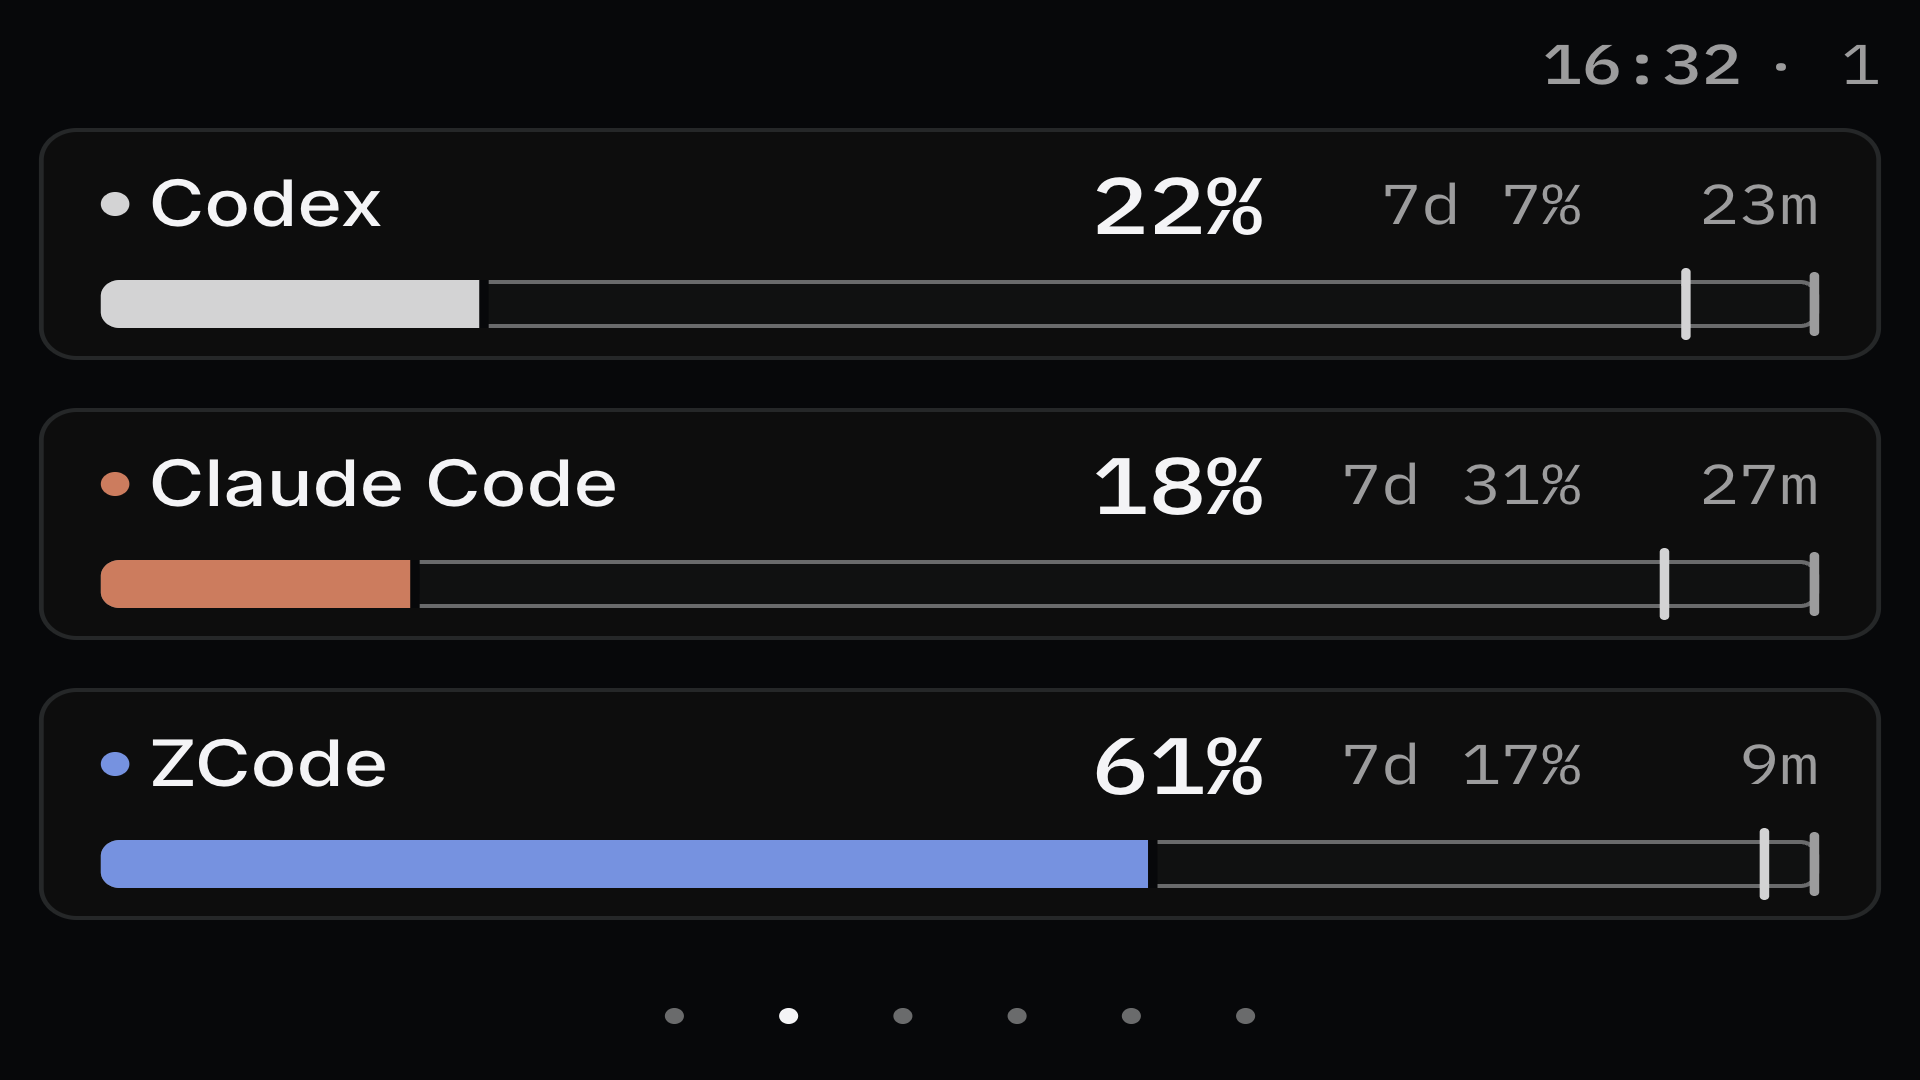
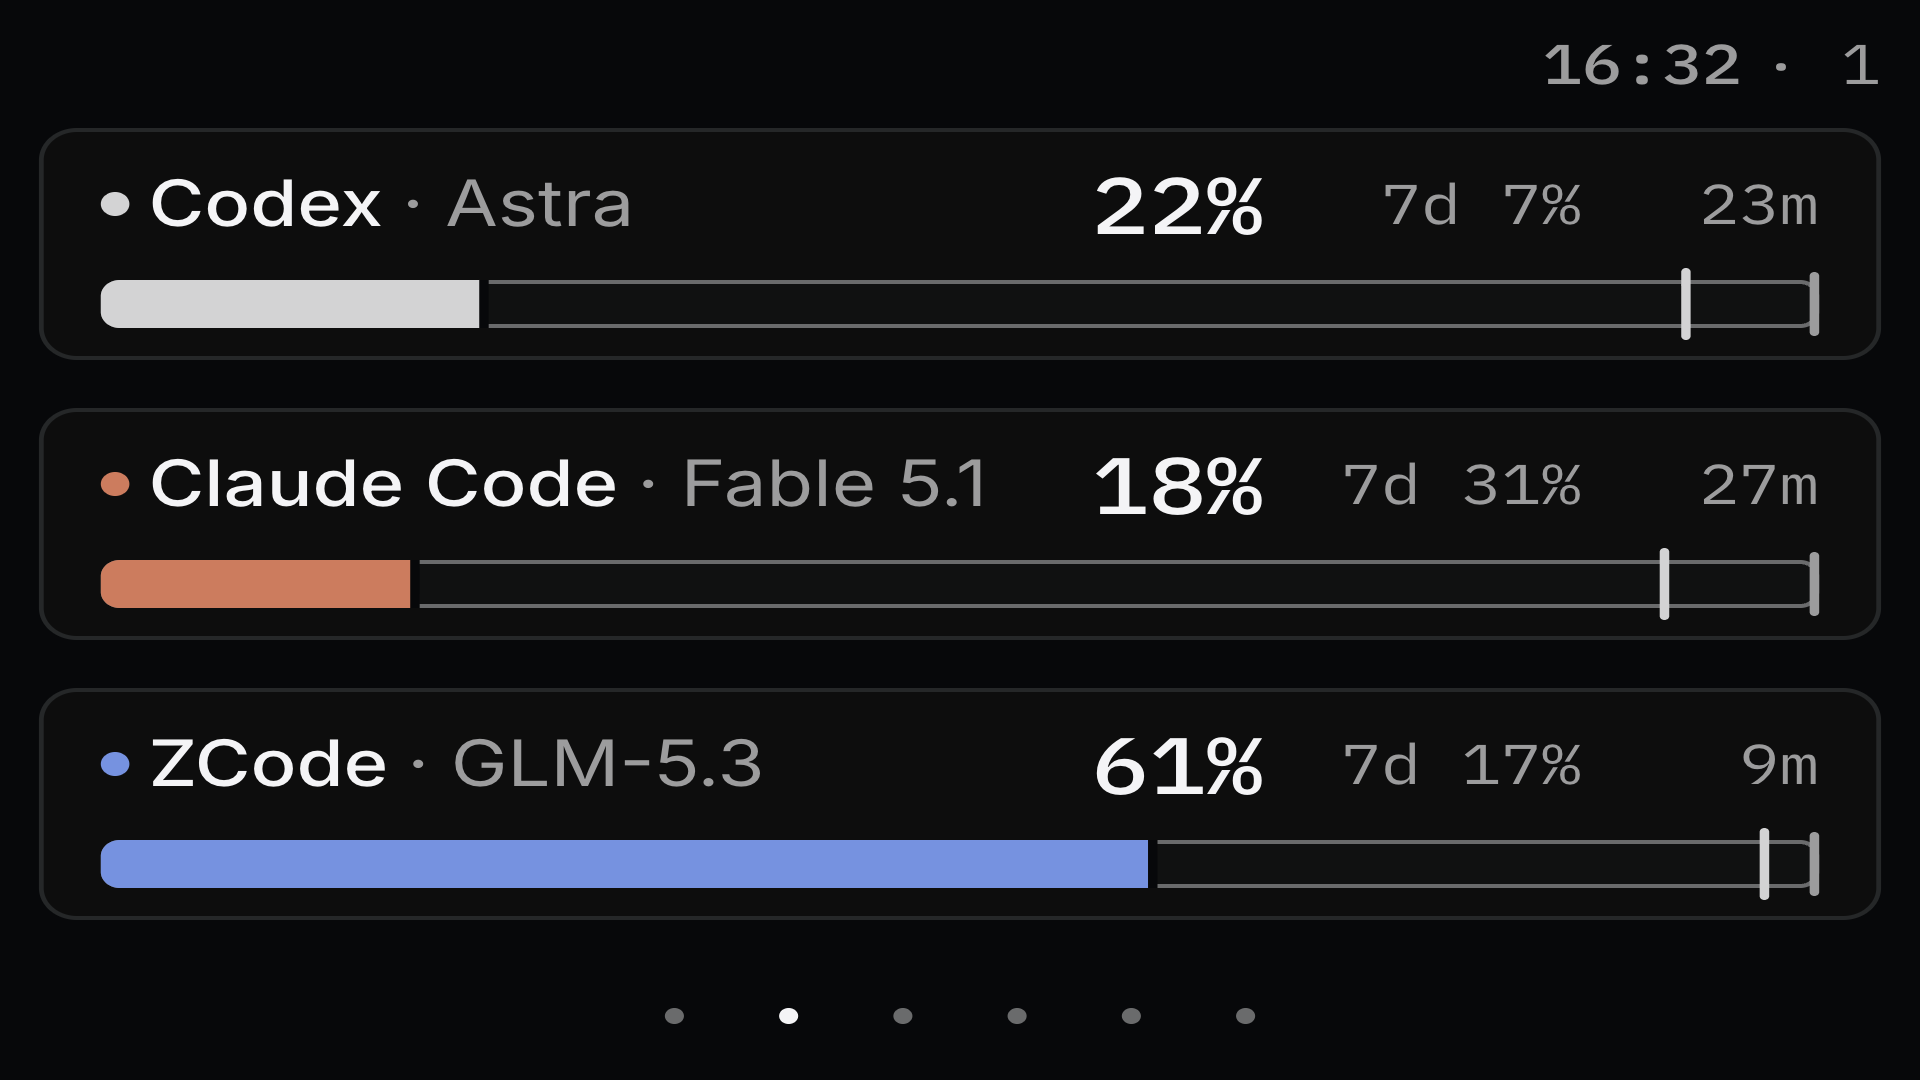
B page: countdown min-width 5ch, name column flex; shortModel ≤10 chars on every branch; edge scene reproduces long-countdown row

Changed region(s): [[0.2188, 0.6722, 0.4062, 0.7333], [0.3438, 0.4278, 0.5312, 0.4889], [0.2188, 0.1528, 0.3438, 0.2139]]

diff --git a/scripts/selftest.ts b/scripts/selftest.ts
@@ -1126,25 +1126,55 @@ export async function runSelftest(win: BrowserWindow, store?: Store): Promise<bo
        规则不是「有值就一定画」：这一行有状态词（等待你批准 / 运行中）或处于 stale 时，
        那个槽位让给更该被看到的东西，模型**故意**不显示。
        所以逐家比的是「该画的画了、该让的让了」两个方向，而不是单纯数非空。 */
-    const perAgent = await js<Array<{ model: string; word: string }>>(win, `
+    const perAgent = await js<Array<{ model: string; word: string; level: string }>>(win, `
       [...document.querySelectorAll('#pbBands .tile')].map(t => ({
         model: (t.querySelector('.b-model')?.textContent || '').replace(/^·\\s*/, '').trim(),
-        word: (t.querySelector('.b-verdict')?.textContent || '').trim()
+        word: (t.querySelector('.b-verdict')?.textContent || '').trim(),
+        // 档位直接读渲染出来的 data-level，别在用例里重抄一遍 80/95 的阈值
+        level: t.dataset.level || ''
       }))`)
     const agentsNow = store.get().agents
     const bad = agentsNow.map((a, i) => {
       const want = (a.topModel ?? '').trim()
       const got = perAgent[i]?.model ?? ''
-      const yields = a.status === 'running' || a.status === 'attention' || !!a.stale
-      if (yields) return got ? `${a.id}: 该让位给「${perAgent[i]?.word}」却还画着「${got}」` : ''
+      /* 四条让位规则（REVISION 10）：有状态词、warn / danger 档、stale。
+         档位读的是瓦片上渲染出来的 data-level —— 阈值只有一处真源。 */
+      const lvl = perAgent[i]?.level ?? ''
+      const yields = a.status === 'running' || a.status === 'attention' || !!a.stale ||
+        (lvl !== '' && lvl !== 'ok')
+      if (yields) {
+        const why = a.status === 'running' || a.status === 'attention' ? `「${perAgent[i]?.word}」`
+          : a.stale ? 'stale' : `${lvl} 档`
+        return got ? `${a.id}: 该让位给 ${why} 却还画着「${got}」` : ''
+      }
       if (want && !got) return `${a.id}: 状态有「${want}」屏上空`
       if (!want && got) return `${a.id}: 状态没有模型，屏上却画了「${got}」`
       return ''
     }).filter(Boolean)
+    /* 这三个字段**一个都不许被省略**（m5-designer 2026-09-15 收紧）。
+       原来只对模型短名要求「省略不得过半」，而实机那一帧是产品名与短名双双截断、
+       右边还空着一大片 —— 根因是 `.b-name` 的 flex-basis 0 让名字列完全由「剩多少」
+       决定，而 `.b-cd` 定宽先把地方拿走了。两处 CSS 改完之后这条强度买得起：
+       224 格全过。判据用 scrollWidth 与 clientWidth，比看有没有「…」可靠
+       （ellipsis 是画出来的，不在 textContent 里）。 */
+    const clipped = await js<string[]>(win, `
+      [...document.querySelectorAll('#pbBands .b-name span.t, #pbBands .b-cd, #pbBands .b-model')]
+        .filter(n => n.scrollWidth > n.clientWidth + 1)
+        .map(n => (n.className || n.tagName) + '「' + (n.textContent || '').trim() + '」')`)
+    check('B 页：产品名 / 倒计时 / 模型短名一个都没被省略',
+      clipped.length === 0,
+      clipped.length ? clipped.join(' | ') : '三类字段全部完整')
+
     check('B 页模型名：该画的画了、该让位的让了（状态词 / stale 优先）',
       bad.length === 0,
       bad.length ? bad.join(' | ')
-        : agentsNow.map((a, i) => `${a.id}=${perAgent[i]?.model || `(让位给「${perAgent[i]?.word || '无活动'}」)`}`).join(' · '))
+        : agentsNow.map((a, i) => {
+          const m = perAgent[i]?.model
+          if (m) return `${a.id}=${m}`
+          const lvl = perAgent[i]?.level ?? ''
+          const why = perAgent[i]?.word || (lvl && lvl !== 'ok' ? `${lvl} 档` : '无活动')
+          return `${a.id}=(让位给「${why}」)`
+        }).join(' · '))
   }
 
   /* ==========================================================================
@@ -1356,15 +1386,21 @@ export async function runSelftest(win: BrowserWindow, store?: Store): Promise<bo
      放在最后：这一格会把 claude 的额度换成合成值，不能污染上面那批交付截图。
      ========================================================================== */
   if (store) {
-    store.applyQuota('claude', {
+    /* 每次读之前都重推一遍这份合成额度。
+       claude 的真实采集在有会话时**每秒都在落地**（statusline tee 一秒写一次文件），
+       只推一次的话，读完 A 页、翻到 B 页这中间就会被真数据顶掉 ——
+       实测红过一次：A 读到合成的 0%/「—」，B 读到真实的 8%/2h39m。 */
+    const pushSynthetic = (): void => store.applyQuota('claude', {
       ok: true,
       windows: [
         { label: '5h', usedPercent: 0, resetsAt: '' },
         { label: '7d', usedPercent: 10, resetsAt: new Date(Date.now() + 107 * 3600_000).toISOString() }
       ]
     })
+    pushSynthetic()
     await sleep(300)
     await sendCommand(win, { type: 'showPage', page: 'a' })
+    pushSynthetic()
     await sleep(260)
     const a = await js<{ num: string; cd: string }>(win, `(() => {
       const t = document.querySelectorAll('#paTiles .tile')[1]
@@ -1372,6 +1408,7 @@ export async function runSelftest(win: BrowserWindow, store?: Store): Promise<bo
                cd: t?.querySelector('.cd')?.textContent?.trim() || '' }
     })()`)
     await sendCommand(win, { type: 'showPage', page: 'b' })
+    pushSynthetic()
     await sleep(260)
     const b = await js<{ pc: string; sec: string; cd: string }>(win, `(() => {
       const t = document.querySelectorAll('#pbBands .tile')[1]

diff --git a/design/variations.html b/design/variations.html
@@ -754,7 +754,10 @@ html[data-pure="1"] .pure-hint{position:fixed;left:50%;bottom:24px;transform:tra
   overflow:hidden;text-overflow:ellipsis;min-width:0;flex:0 5 auto}
 /* ok 行没有判语列了，名字这一列顺势吃掉剩余宽度，数字列因此仍然右对齐成一条线；
    loading / msg 行还留着判语，那里仍用 112px 的固定名字列让三条判语共享左边缘。 */
-.page-b .b-head-ok .b-name{flex:1;min-width:0}
+/* flex 基数用 auto 而不是 0%：basis 0 时名字列的大小完全由「剩多少」决定，
+   一旦某一行的数字列变宽（7 字符倒计时）就会连产品名一起挤掉，而右边其实还空着；
+   basis auto 是「先按内容量，放不下再让」，与实际的优先级一致。 */
+.page-b .b-head-ok .b-name{flex:1 1 auto;min-width:0}
 .page-b .b-verdict{font-size:var(--fs-min);color:var(--mute);flex:0 1 auto;min-width:0;
   overflow:hidden;text-overflow:ellipsis;white-space:nowrap;line-height:1.2}
 .page-b .b-verdict[data-tone="error"]{color:var(--danger)}
@@ -773,9 +776,11 @@ html[data-pure="1"] .pure-hint{position:fixed;left:50%;bottom:24px;transform:tra
    两者原来只差 4px，读起来是同一层；降档既让层级清楚，也把 8.4px 还给了模型短名。 */
 .page-b .b-sec{font-size:var(--fs-min);color:var(--mute);flex:none;
   width:7ch;min-width:0;text-align:right}
-/* 倒计时同样定宽，但按字符数定：5 个字符（「4h59m」）在 14px mono 下正好 42px，
-   原来的 48px 是按像素估的，多出来的 6px 在 403 画布上买不起。 */
-.page-b .b-cd{font-size:var(--fs-min);color:var(--mute);flex:none;width:5ch;text-align:right;
+/* 倒计时按字符数定，但定的是**下限**不是定宽（REVISION 10b）：
+   5 个字符（「4h59m」）是常态，42px 让三行的倒计时对齐；可周额度重置时它会长到
+   7 个字符（「107h55m」），定宽就会把它自己省略掉——倒计时是必须完整出现的字段，
+   不是可以让的那一个。flex:none 保证它只从名字列那边要地方，不被名字挤压。 */
+.page-b .b-cd{font-size:var(--fs-min);color:var(--mute);flex:none;min-width:5ch;text-align:right;
   white-space:nowrap;overflow:hidden;text-overflow:ellipsis}
 /* B-1 · 轨道原来是 --ash 实心板：全屏最亮的一块，承载的却是「没用掉的部分」——
    figure/ground 反过来了（0% 的那条读成「满的」）。WCAG 1.4.11 要的是组件边界
@@ -2585,9 +2590,19 @@ const SCENES = {
   edge: () => ({tiles:[
       {agent:"codex", phase:"ok", status:"idle", windows:[
         {label:"5h", usedPercent:97, resetsAt:"2026-09-14T16:35:48+08:00"}, CODEX_OK[1]]},
+      /* REVISION 10b · m4-executor 在真机上见过一帧「Claude Co… · Fabl…」双双截断、
+         右侧却留着空——那一行是 7 字符的倒计时（107h55m）且 7d 块缺席。
+         原型里复现这一帧：**最长的产品名 + 最长的短名 + 最长的倒计时 + 没有 7d**。
+         两件事都会真的发生：7d 是 API 给的，缺了就不渲染；「107h55m」是周额度
+         那种重置周期在倒计时里的真实形态。
+         这一行必须落在 ok 档（61%）——warn / danger 时短名本来就不显示（REVISION 10），
+         那样就复现不出「产品名与短名并排」这个最宽的组合。
+         warn 这一档挪给 ZCode，edge 仍然是 danger / ok / warn 三档同屏。 */
       {agent:"claude", phase:"ok", status:"idle", windows:[
-        {label:"5h", usedPercent:82, resetsAt:CLAUDE_OK[0].resetsAt}, CLAUDE_OK[1]]},
-      {agent:"zcode", phase:"ok", status:"idle", windows:ZCODE_OK}],
+        {label:"5h", usedPercent:61,
+         resetsAt:new Date(NOW0 + (107 * 60 + 55) * 60000).toISOString()}]},
+      {agent:"zcode", phase:"ok", status:"idle", windows:[
+        {label:"5h", usedPercent:82, resetsAt:ZCODE_OK[0].resetsAt}, ZCODE_OK[1]]}],
     feed:{phase:"ok", items:EDGE_FEED.map(x => ({...x}))}}),
   /* full · 三家同时 100%、7d 也 100%（用户 2026-09-15 实机反馈：额度打满时横向放不下）。
      这是 edge 里最宽的那一种，但不能拿它替掉 edge —— edge 现在的 97 / 82 / 61 正好

diff --git a/src/main/state.ts b/src/main/state.ts
@@ -40,6 +40,10 @@ type RawEvent = {
 const QUOTA = quotaJson as unknown as RawQuota
 const RAW_EVENTS = (eventsJson as unknown as { generatedAt: string; events: RawEvent[] }).events
 
+/** 在冻结原点上加 N 分钟，拿一个可复现的 resetsAt（edge 的 107h55m 用） */
+const plusMinutes = (iso: string, min: number): string =>
+  new Date(new Date(iso).getTime() + min * 60_000).toISOString()
+
 /** 时间原点冻结在 fixtures 的 generatedAt —— 倒计时与 resetsAt 自洽，截图可复现 */
 const NOW0 = new Date(QUOTA.generatedAt).getTime()
 const BOOT = Date.now()
@@ -84,12 +88,26 @@ const ATTN_EVENT: AgentEvent = {
   acked: false
 }
 
+/**
+ * fixtures 里三家的模型短名，与原型的 `TOP_MODEL` 对齐（REVISION 10）。
+ *
+ * 不加这一项的话，B 页在**所有** fixtures 帧上都不显示模型 —— 于是
+ * 「产品名 + 短名并排」这个最宽的组合在七态截图与逐格量尺里一次都测不到，
+ * 而 m5-designer 钉进 edge 的那个复现正是冲着这个组合来的。
+ * 真机上这个字段由 collectors/topmodel.ts 的 shortModel() 给。
+ */
+const TOP_MODEL: Record<AgentId, string> = {
+  codex: 'Astra', claude: 'Fable 5.1', zcode: 'GLM-5.3'
+}
+
 const agent = (
   id: AgentId,
   status: AgentState['status'],
   windows: QuotaWindow[],
   notice?: Notice
-): AgentState => ({ id, status, windows, updatedAt: QUOTA.generatedAt, notice })
+): AgentState => ({
+  id, status, windows, updatedAt: QUOTA.generatedAt, notice, topModel: TOP_MODEL[id]
+})
 
 const CODEX = QUOTA.codex.windows
 const CLAUDE = QUOTA.claude.windows
@@ -151,11 +169,16 @@ const SCENES: Record<SceneName, () => SceneBody> = {
         { label: '5h', usedPercent: 97, resetsAt: '2026-09-14T16:35:48+08:00' },
         CODEX[1]!
       ]),
+      /* Claude 这一行就是**实机那一帧**（m5-designer 2026-09-15 定位并钉进 fixture）：
+         61% 必须是 ok 档 —— warn/danger 时模型短名本来就不显示，
+         那样就复现不出「产品名 + 短名并排」这个最宽的组合；
+         只有 5h 没有 7d；倒计时 107h55m（7 字符）。
+         三样凑齐才会撞上「.b-name 的 basis 0 + .b-cd 定宽」那个左截断右留空。 */
       agent('claude', 'idle', [
-        { label: '5h', usedPercent: 82, resetsAt: CLAUDE[0]!.resetsAt },
-        CLAUDE[1]!
+        { label: '5h', usedPercent: 61, resetsAt: plusMinutes(QUOTA.generatedAt, 107 * 60 + 55) }
       ]),
-      agent('zcode', 'idle', ZCODE)
+      // warn 这一档挪给 ZCode，edge 仍是 danger / ok / warn 三档同屏
+      agent('zcode', 'idle', [{ ...ZCODE[0]!, usedPercent: 82 }, ...ZCODE.slice(1)])
     ],
     events: edgeFeed()
   }),

diff --git a/src/renderer/app.css b/src/renderer/app.css
@@ -227,7 +227,10 @@ body{margin:0;background:var(--canvas);overflow:hidden;
   overflow:hidden;text-overflow:ellipsis;min-width:0;flex:0 5 auto}
 /* ok 行没有判语列了，名字这一列顺势吃掉剩余宽度，数字列因此仍然右对齐成一条线；
    loading / msg 行还留着判语，那里仍用 112px 的固定名字列让三条判语共享左边缘。 */
-.page-b .b-head-ok .b-name{flex:1;min-width:0}
+/* flex 基数用 auto 而不是 0%：basis 0 时名字列的大小完全由「剩多少」决定，
+   一旦某一行的数字列变宽（7 字符倒计时）就会连产品名一起挤掉，而右边其实还空着；
+   basis auto 是「先按内容量，放不下再让」，与实际的优先级一致。 */
+.page-b .b-head-ok .b-name{flex:1 1 auto;min-width:0}
 .page-b .b-verdict{font-size:var(--fs-min);color:var(--mute);flex:0 1 auto;min-width:0;
   overflow:hidden;text-overflow:ellipsis;white-space:nowrap;line-height:1.2}
 .page-b .b-verdict[data-tone="error"]{color:var(--danger)}
@@ -246,9 +249,11 @@ body{margin:0;background:var(--canvas);overflow:hidden;
    两者原来只差 4px，读起来是同一层；降档既让层级清楚，也把 8.4px 还给了模型短名。 */
 .page-b .b-sec{font-size:var(--fs-min);color:var(--mute);flex:none;
   width:7ch;min-width:0;text-align:right}
-/* 倒计时同样定宽，但按字符数定：5 个字符（「4h59m」）在 14px mono 下正好 42px，
-   原来的 48px 是按像素估的，多出来的 6px 在 403 画布上买不起。 */
-.page-b .b-cd{font-size:var(--fs-min);color:var(--mute);flex:none;width:5ch;text-align:right;
+/* 倒计时按字符数定，但定的是**下限**不是定宽（REVISION 10b）：
+   5 个字符（「4h59m」）是常态，42px 让三行的倒计时对齐；可周额度重置时它会长到
+   7 个字符（「107h55m」），定宽就会把它自己省略掉——倒计时是必须完整出现的字段，
+   不是可以让的那一个。flex:none 保证它只从名字列那边要地方，不被名字挤压。 */
+.page-b .b-cd{font-size:var(--fs-min);color:var(--mute);flex:none;min-width:5ch;text-align:right;
   white-space:nowrap;overflow:hidden;text-overflow:ellipsis}
 /* B-1 · 轨道原来是 --ash 实心板：全屏最亮的一块，承载的却是「没用掉的部分」——
    figure/ground 反过来了（0% 的那条读成「满的」）。WCAG 1.4.11 要的是组件边界

diff --git a/src/main/collectors/topmodel.ts b/src/main/collectors/topmodel.ts
@@ -206,6 +206,12 @@ const clipShort = (s: string): string =>
  * 四条家族规则，其余走兜底。**故意不做成一张查找表**：表只认见过的那几个，
  * 而模型每隔几周就出新的，认不出的那天屏上就会退回一串截断的 id。
  * 规则认的是**构词法**，新版本号、新代号都自动接得住。
+ *
+ * **每一条返回路径都过 `clipShort`**（m5-designer 2026-09-15 提的）：
+ * 构词法的输出长度是开放的 —— `claude-somelongname-5` 剥完仍然是 20 个字符，
+ * 而 B 页那一格按 ≤10 设计。只靠渲染层那条断言兜不住：它要在
+ * 「产品名最长的那一行 + ok 档 + 403 画布」同时成立时才会红，条件太窄。
+ * 长度是这个函数自己的契约，就在这儿闭合。
  */
 export function shortModel(raw: string | undefined): string | undefined {
   if (!raw) return undefined
@@ -217,18 +223,18 @@ export function shortModel(raw: string | undefined): string | undefined {
   const cl = /^claude-([a-z]+)((?:-\d+)*)$/i.exec(bare)
   if (cl) {
     const ver = cl[2]!.split('-').filter(Boolean).join('.')
-    return ver ? `${cap(cl[1]!)} ${ver}` : cap(cl[1]!)
+    return clipShort(ver ? `${cap(cl[1]!)} ${ver}` : cap(cl[1]!))
   }
   // 裸的家族名（转录里出现过 `opus`）
-  if (/^(opus|sonnet|haiku|fable)$/i.test(bare)) return cap(bare)
+  if (/^(opus|sonnet|haiku|fable)$/i.test(bare)) return clipShort(cap(bare))
 
   // Codex：gpt-<版本>-<代号> → 代号本身就是产品名（Astra / Sol）；没有代号就 `GPT-<版本>`
   const gp = /^gpt-([\d.]+)(?:-([a-z][a-z\d]*))?$/i.exec(bare)
-  if (gp) return gp[2] ? cap(gp[2]) : `GPT-${gp[1]}`
+  if (gp) return clipShort(gp[2] ? cap(gp[2]) : `GPT-${gp[1]}`)
 
   // 智谱：GLM-<主>.<次>，后面的档位词（Flash / Air…）不进短名
   const glm = /^(GLM-[\d.]+)/i.exec(bare)
-  if (glm) return glm[1]!.toUpperCase().replace('GLM', 'GLM')
+  if (glm) return clipShort(glm[1]!.toUpperCase())
 
   /* 兜底：去掉厂商前缀（第一个 `-` 之前那段，只有它像厂商名时才去），
      取最后一段、首字母大写、截到 10 字符。

diff --git a/tests/collectors/topmodel.test.ts b/tests/collectors/topmodel.test.ts
@@ -166,6 +166,31 @@ describe('shortModel · 实测 id', () => {
       expect(shortModel(id)!.length).toBeLessThanOrEqual(SHORT_MAX)
     }
   })
+
+  /* 长度是这个函数自己的契约，不能只靠 B 页那条渲染断言兜 ——
+     那条要在「产品名最长的一行 + ok 档 + 403 画布」同时成立时才会红，条件太窄。
+     构词法的输出长度是开放的：新家族名、长代号、长版本链都可能超。 */
+  it('**任何**输入的输出都 ≤10 —— 构词法不给长度做保证，这里给', () => {
+    const ids = [
+      // 实测过的
+      'claude-fable-5-1', 'claude-opus-5', 'claude-opus-4-6', 'opus', '<synthetic>',
+      'gpt-6-astra', 'gpt-5.6-sol',
+      'builtin:bigmodel-coding-plan/GLM-5.3-Flash', 'builtin:bigmodel-coding-plan/GLM-5.3$high',
+      // 构造的长形态：每一条都走不同的分支
+      'claude-somelongfamilyname-5',              // Claude 分支：长家族名
+      'claude-sonnet-4-5-20250929',               // Claude 分支：长版本链
+      'gpt-7-averyverylongcodename',              // Codex 分支：长代号
+      'gpt-12.34.56.78',                          // Codex 分支：长版本
+      'GLM-5.3.4.5.6.7.8.9-Flash',                // 智谱分支：长版本
+      'builtin:plan/some-vendor-averylongtailsegment',  // 兜底分支
+      'averylongsinglewordmodelname'              // 兜底分支：没有连字符
+    ]
+    for (const id of ids) {
+      const out = shortModel(id)
+      expect(out, id).toBeDefined()
+      expect(out!.length, `${id} → ${out}`).toBeLessThanOrEqual(SHORT_MAX)
+    }
+  })
 })
 
 describe('shortModel · 兜底', () => {
